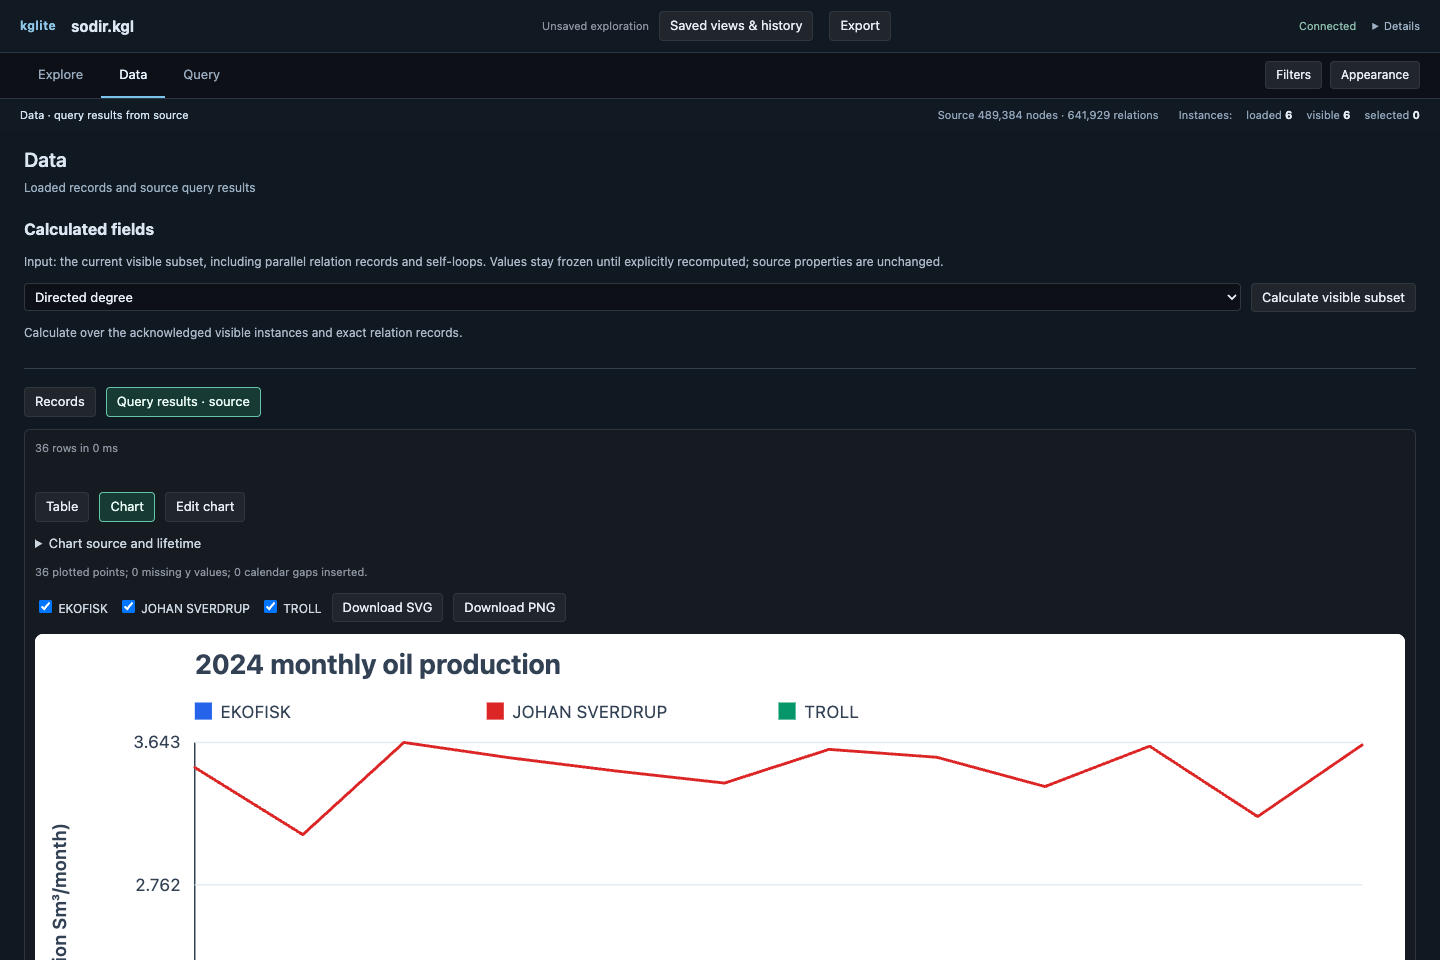
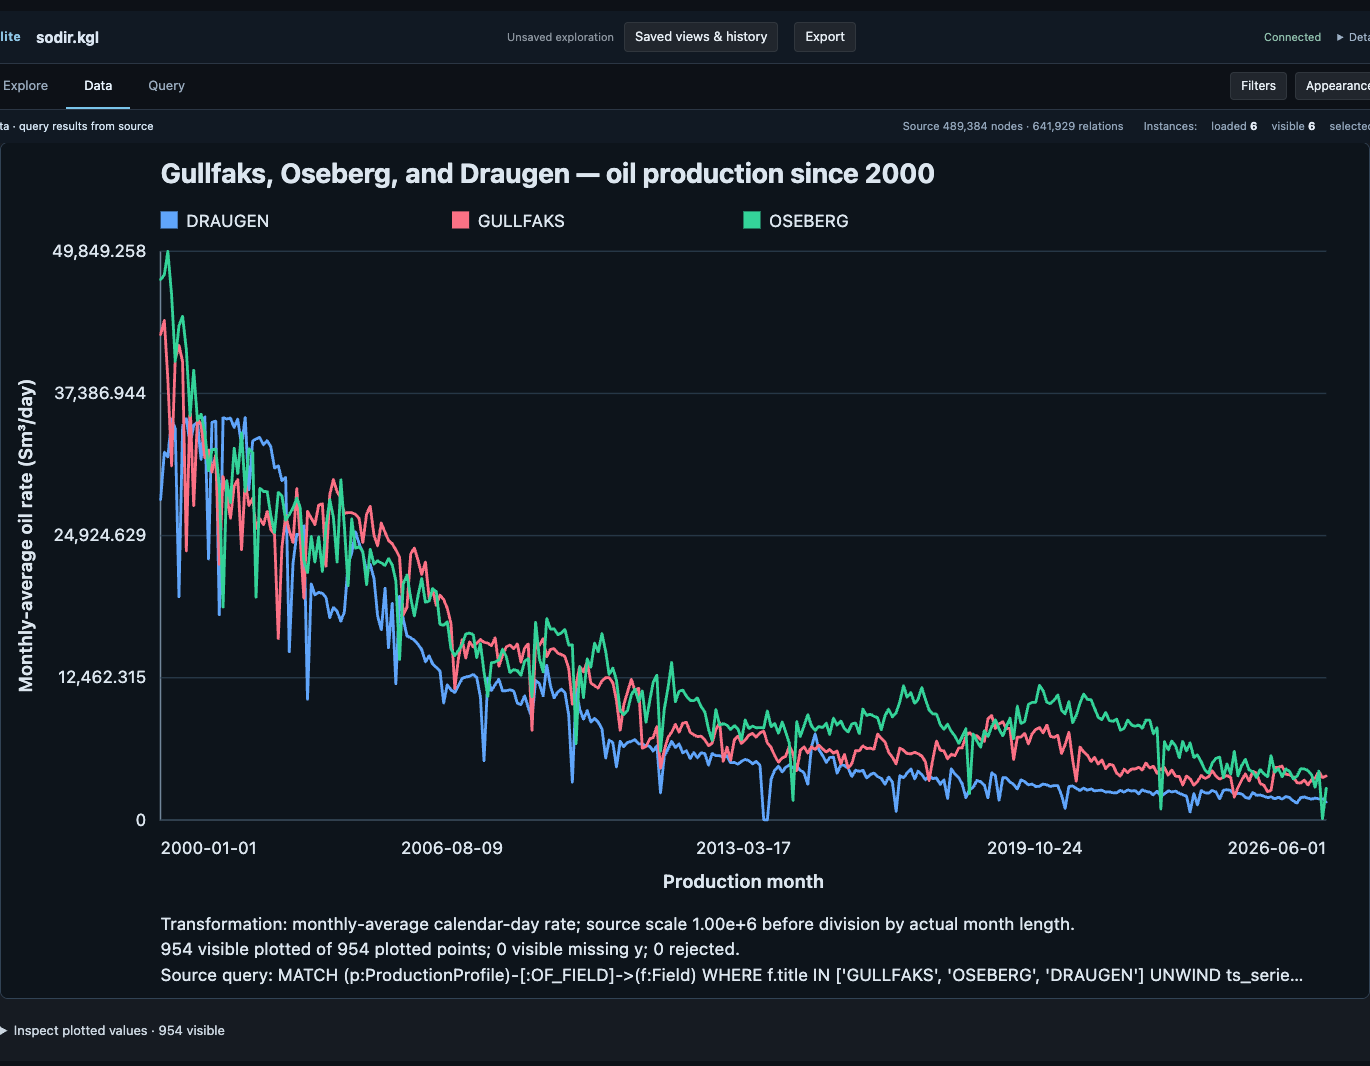
Polish the long-range SODIR production example

diff --git a/frontend/src/charts/render.ts b/frontend/src/charts/render.ts
@@ -1,6 +1,7 @@
 import type { ChartKind, ChartModel, ChartPoint, ChartSeries } from './types'
 
 const PALETTE = ['#2563eb', '#dc2626', '#059669', '#7c3aed', '#d97706', '#0891b2', '#be185d', '#4f46e5', '#65a30d', '#9333ea', '#ea580c', '#0f766e', '#b91c1c', '#0369a1', '#6d28d9', '#15803d', '#c2410c', '#4338ca', '#a21caf', '#047857']
+const DARK_PALETTE = ['#60a5fa', '#fb7185', '#34d399', '#c084fc', '#fbbf24', '#22d3ee', '#f472b6', '#818cf8', '#a3e635', '#d8b4fe', '#fb923c', '#2dd4bf', '#f87171', '#38bdf8', '#a78bfa', '#4ade80', '#fdba74', '#a5b4fc', '#e879f9', '#6ee7b7']
 
 export interface ChartSource {
   query?: string
@@ -13,6 +14,7 @@ export interface ChartRenderOptions {
   height?: number
   title?: string
   background?: string
+  theme?: 'light' | 'dark'
   hiddenSeries?: ReadonlySet<string>
   source?: ChartSource
 }
@@ -98,9 +100,12 @@ function provenance(model: ChartModel, source: ChartSource | undefined, series: 
   }).replace(/</g, '\\u003c')
 }
 
-function seriesColor(model: ChartModel, series: ChartSeries): string { return PALETTE[Math.max(0, model.series.indexOf(series)) % PALETTE.length]! }
+function seriesColor(model: ChartModel, series: ChartSeries, theme: 'light' | 'dark'): string {
+  const palette = theme === 'dark' ? DARK_PALETTE : PALETTE
+  return palette[Math.max(0, model.series.indexOf(series)) % palette.length]!
+}
 
-function marks(kind: ChartKind, model: ChartModel, series: ChartSeries[], frame: Frame, xd: Domain, yd: Domain): string {
+function marks(kind: ChartKind, model: ChartModel, series: ChartSeries[], frame: Frame, xd: Domain, yd: Domain, theme: 'light' | 'dark'): string {
   const sx = (x: number) => scale(x, xd, frame.left, frame.right)
   const sy = (y: number) => scale(y, yd, frame.bottom, frame.top)
   if (kind === 'line') return series.map(s => {
@@ -108,20 +113,25 @@ function marks(kind: ChartKind, model: ChartModel, series: ChartSeries[], frame:
     for (const p of s.points) { if (p.y === null) { if (run.length) runs.push(run); run = [] } else run.push(p) }
     if (run.length) runs.push(run)
     return runs.map(points => points.length === 1
-      ? `<circle class="series-single" data-series="${escapeSvg(s.key)}" cx="${sx(points[0]!.x).toFixed(2)}" cy="${sy(points[0]!.y!).toFixed(2)}" r="3.5" fill="${seriesColor(model,s)}"><title>${escapeSvg(`${s.label}: ${xText(model, points[0]!)}, ${fmt(points[0]!.y!)}`)}</title></circle>`
-      : `<path class="series-line" data-series="${escapeSvg(s.key)}" d="${points.map((p, i) => `${i ? 'L' : 'M'}${sx(p.x).toFixed(2)},${sy(p.y!).toFixed(2)}`).join(' ')}" stroke="${seriesColor(model,s)}"/>`).join('')
+      ? `<circle class="series-single" data-series="${escapeSvg(s.key)}" cx="${sx(points[0]!.x).toFixed(2)}" cy="${sy(points[0]!.y!).toFixed(2)}" r="3.5" fill="${seriesColor(model,s,theme)}"><title>${escapeSvg(`${s.label}: ${xText(model, points[0]!)}, ${fmt(points[0]!.y!)}`)}</title></circle>`
+      : `<path class="series-line" data-series="${escapeSvg(s.key)}" d="${points.map((p, i) => `${i ? 'L' : 'M'}${sx(p.x).toFixed(2)},${sy(p.y!).toFixed(2)}`).join(' ')}" stroke="${seriesColor(model,s,theme)}"/>`).join('')
   }).join('')
-  if (kind === 'scatter') return series.map(s => s.points.filter(p => p.y !== null).map(p => `<circle class="point" cx="${sx(p.x).toFixed(2)}" cy="${sy(p.y!).toFixed(2)}" r="3" fill="${seriesColor(model,s)}"><title>${escapeSvg(`${s.label}: ${xText(model, p)}, ${fmt(p.y!)}`)}</title></circle>`).join('')).join('')
+  if (kind === 'scatter') return series.map(s => s.points.filter(p => p.y !== null).map(p => `<circle class="point" cx="${sx(p.x).toFixed(2)}" cy="${sy(p.y!).toFixed(2)}" r="3" fill="${seriesColor(model,s,theme)}"><title>${escapeSvg(`${s.label}: ${xText(model, p)}, ${fmt(p.y!)}`)}</title></circle>`).join('')).join('')
   const all = series.flatMap((s, si) => s.points.filter(p => p.y !== null).map(p => ({s, si, p})))
   const categories = [...new Set(all.map(v => v.p.x))].sort((a, b) => a - b)
   const band = frame.width / Math.max(1, categories.length); const bar = Math.max(1, band * 0.8 / Math.max(1, series.length)); const zero = sy(0)
-  return all.map(({s, si, p}) => { const ci = categories.indexOf(p.x); const x = frame.left + ci * band + band * 0.1 + si * bar; const y = sy(p.y!); return `<rect class="bar" x="${x.toFixed(2)}" y="${Math.min(y, zero).toFixed(2)}" width="${bar.toFixed(2)}" height="${Math.max(1, Math.abs(zero-y)).toFixed(2)}" fill="${seriesColor(model,s)}"><title>${escapeSvg(`${s.label}: ${xText(model, p)}, ${fmt(p.y!)}`)}</title></rect>` }).join('')
+  return all.map(({s, si, p}) => { const ci = categories.indexOf(p.x); const x = frame.left + ci * band + band * 0.1 + si * bar; const y = sy(p.y!); return `<rect class="bar" x="${x.toFixed(2)}" y="${Math.min(y, zero).toFixed(2)}" width="${bar.toFixed(2)}" height="${Math.max(1, Math.abs(zero-y)).toFixed(2)}" fill="${seriesColor(model,s,theme)}"><title>${escapeSvg(`${s.label}: ${xText(model, p)}, ${fmt(p.y!)}`)}</title></rect>` }).join('')
 }
 
 export function renderChartSvg(model: ChartModel, options: ChartRenderOptions = {}): string {
   const {width, height} = chartDimensions(model, options)
   const title = options.title?.trim() || `${model.kind.charAt(0).toUpperCase()}${model.kind.slice(1)} chart`
-  const background = options.background ?? '#ffffff'; const series = visibleChartSeries(model, options.hiddenSeries)
+  const theme = options.theme ?? 'light'
+  const background = options.background ?? (theme === 'dark' ? '#0d141b' : '#ffffff')
+  const foreground = theme === 'dark' ? '#dce6ef' : '#334155'
+  const axisColor = theme === 'dark' ? '#71869a' : '#334155'
+  const gridColor = theme === 'dark' ? '#263746' : '#e2e8f0'
+  const series = visibleChartSeries(model, options.hiddenSeries)
   const values = series.flatMap(s => s.points); const xs = values.map(p => p.x); const ys = values.flatMap(p => p.y === null ? [] : [p.y])
   const xd = finiteDomain(xs); const yd = finiteDomain(ys, model.kind === 'bar')
   const legendColumns = Math.max(1, Math.min(4, Math.floor((width - 112) / 180))); const legendRows = Math.max(1, Math.ceil(series.length / legendColumns))
@@ -129,15 +139,15 @@ export function renderChartSvg(model: ChartModel, options: ChartRenderOptions = 
   const categories = [...new Set(xs)].sort((a,b) => a-b); const xTicks = model.kind === 'bar' ? categories.slice(0, 8) : model.xKind === 'category' ? categories.slice(0, 8) : ticks(xd)
   const yTicks = ticks(yd)
   const axis = [
-    `<path d="M${frame.left},${frame.top}V${frame.bottom}H${frame.right}" fill="none" stroke="#334155"/>`,
-    ...yTicks.map(v => `<g><path d="M${frame.left},${scale(v,yd,frame.bottom,frame.top).toFixed(2)}H${frame.right}" stroke="#e2e8f0"/><text x="${frame.left-10}" y="${(scale(v,yd,frame.bottom,frame.top)+4).toFixed(2)}" text-anchor="end">${escapeSvg(fmt(v))}</text></g>`),
+    `<path d="M${frame.left},${frame.top}V${frame.bottom}H${frame.right}" fill="none" stroke="${axisColor}"/>`,
+    ...yTicks.map(v => `<g><path d="M${frame.left},${scale(v,yd,frame.bottom,frame.top).toFixed(2)}H${frame.right}" stroke="${gridColor}"/><text x="${frame.left-10}" y="${(scale(v,yd,frame.bottom,frame.top)+4).toFixed(2)}" text-anchor="end">${escapeSvg(fmt(v))}</text></g>`),
     ...xTicks.map((v,index) => `<text x="${(model.kind === 'bar' ? frame.left + (categories.indexOf(v)+0.5)*frame.width/categories.length : scale(v,xd,frame.left,frame.right)).toFixed(2)}" y="${frame.bottom+24}" text-anchor="${model.kind !== 'bar' && index === 0 ? 'start' : model.kind !== 'bar' && index === xTicks.length-1 ? 'end' : 'middle'}">${escapeSvg(xText(model,{x:v,y:0,sourceRow:0}))}</text>`),
   ].join('')
   const legendWidth = frame.width / legendColumns
-  const legend = series.map((s,i) => `<g transform="translate(${frame.left + (i%legendColumns)*legendWidth},${48+Math.floor(i/legendColumns)*18})"><rect width="12" height="12" fill="${seriesColor(model,s)}"/><text x="18" y="11">${escapeSvg(s.label.length > 24 ? `${s.label.slice(0,23)}…` : s.label)}</text></g>`).join('')
+  const legend = series.map((s,i) => `<g transform="translate(${frame.left + (i%legendColumns)*legendWidth},${48+Math.floor(i/legendColumns)*18})"><rect width="12" height="12" fill="${seriesColor(model,s,theme)}"/><text x="18" y="11">${escapeSvg(s.label.length > 24 ? `${s.label.slice(0,23)}…` : s.label)}</text></g>`).join('')
   const visiblePoints = series.flatMap(item => item.points); const visiblePlotted = visiblePoints.filter(point => point.y !== null).length; const visibleMissing = visiblePoints.length - visiblePlotted
   const coverage = `${visiblePlotted} visible plotted of ${model.coverage.plottedPoints} plotted points; ${visibleMissing} visible missing y; ${model.coverage.rejectedPoints} rejected.`
   const source = options.source?.query ? `Source query: ${options.source.query}` : (options.source?.label ?? 'Source query unavailable')
   const transform = model.transform ? `Transformation: monthly-average calendar-day rate; source scale ${fmt(model.transform.scale)} before division by actual month length.` : ''
-  return `<svg xmlns="http://www.w3.org/2000/svg" role="img" aria-labelledby="chart-title chart-desc" viewBox="0 0 ${width} ${height}" width="${width}" height="${height}"><title id="chart-title">${escapeSvg(title)}</title><desc id="chart-desc">${escapeSvg(`${model.kind} chart. ${coverage} ${transform} ${source}`)}</desc><metadata>${escapeSvg(provenance(model, options.source, series))}</metadata><style>text{font:12px system-ui,sans-serif;fill:#334155}.series-line{fill:none;stroke-width:2;stroke-linejoin:round;stroke-linecap:round}.axis-label{font-size:13px;font-weight:600}.chart-title{font-size:19px;font-weight:700}</style><rect width="100%" height="100%" fill="${escapeSvg(background)}"/><text class="chart-title" x="${frame.left}" y="28">${escapeSvg(title)}</text>${axis}${marks(model.kind,model,series,frame,xd,yd)}<text class="axis-label" x="${(frame.left+frame.right)/2}" y="${frame.bottom+48}" text-anchor="middle">${escapeSvg(model.xLabel ?? 'x')}</text><text class="axis-label" transform="translate(22 ${(frame.top+frame.bottom)/2}) rotate(-90)" text-anchor="middle">${escapeSvg(`${model.yLabel ?? 'y'}${model.unit ? ` (${model.unit})` : ''}`)}</text>${legend}${transform ? `<text x="${frame.left}" y="${height-48}">${escapeSvg(transform)}</text>` : ''}<text x="${frame.left}" y="${height-30}">${escapeSvg(coverage)}</text><text x="${frame.left}" y="${height-12}">${escapeSvg(source.length > 135 ? `${source.slice(0,132)}…` : source)}</text></svg>`
+  return `<svg xmlns="http://www.w3.org/2000/svg" role="img" aria-labelledby="chart-title chart-desc" viewBox="0 0 ${width} ${height}" width="${width}" height="${height}"><title id="chart-title">${escapeSvg(title)}</title><desc id="chart-desc">${escapeSvg(`${model.kind} chart. ${coverage} ${transform} ${source}`)}</desc><metadata>${escapeSvg(provenance(model, options.source, series))}</metadata><style>text{font:12px system-ui,sans-serif;fill:${foreground}}.series-line{fill:none;stroke-width:2;stroke-linejoin:round;stroke-linecap:round}.axis-label{font-size:13px;font-weight:600}.chart-title{font-size:19px;font-weight:700}</style><rect width="100%" height="100%" fill="${escapeSvg(background)}"/><text class="chart-title" x="${frame.left}" y="28">${escapeSvg(title)}</text>${axis}${marks(model.kind,model,series,frame,xd,yd,theme)}<text class="axis-label" x="${(frame.left+frame.right)/2}" y="${frame.bottom+48}" text-anchor="middle">${escapeSvg(model.xLabel ?? 'x')}</text><text class="axis-label" transform="translate(22 ${(frame.top+frame.bottom)/2}) rotate(-90)" text-anchor="middle">${escapeSvg(`${model.yLabel ?? 'y'}${model.unit ? ` (${model.unit})` : ''}`)}</text>${legend}${transform ? `<text x="${frame.left}" y="${height-48}">${escapeSvg(transform)}</text>` : ''}<text x="${frame.left}" y="${height-30}">${escapeSvg(coverage)}</text><text x="${frame.left}" y="${height-12}">${escapeSvg(source.length > 135 ? `${source.slice(0,132)}…` : source)}</text></svg>`
 }

diff --git a/frontend/tests/e2e/chart-ui.spec.ts b/frontend/tests/e2e/chart-ui.spec.ts
@@ -32,12 +32,16 @@ test('a bounded query result becomes an inspectable chart without changing graph
     await page.getByTestId('chart-x').selectOption('person')
     await page.getByTestId('chart-y').selectOption('age')
     await page.getByTestId('chart-title').fill('Fixture ages')
+    await page.getByTestId('chart-x-label').fill('Person')
+    await page.getByTestId('chart-y-label').fill('Age')
     await page.getByTestId('chart-unit').fill('years')
     await page.getByTestId('chart-build').click()
 
     const svg = page.getByTestId('chart-picture').locator('svg')
     await expect(svg).toBeVisible()
     await expect(svg.locator('#chart-title')).toHaveText('Fixture ages')
+    await expect(svg.locator(':scope > rect').first()).toHaveAttribute('fill', '#0d141b')
+    await expect(svg.locator('.axis-label')).toHaveText(['Person', 'Age (years)'])
     await expect(page.getByTestId('chart-values')).toContainText('12 visible')
     expect(await page.evaluate(() => window.__kglv?.selectedCount)).toBe(selectedBefore)
 
@@ -50,6 +54,7 @@ test('a bounded query result becomes an inspectable chart without changing graph
     const exported = readFileSync(savedPath!, 'utf8')
     expect(exported).toContain(query)
     expect(exported).toContain('&quot;resultRowsReturned&quot;:12')
+    expect(exported).toContain('fill="#ffffff"')
 
     await page.getByTestId('chart-table-view').click()
     await expect(page.getByTestId('query-table')).toBeVisible()

diff --git a/frontend/src/charts/panel.ts b/frontend/src/charts/panel.ts
@@ -215,9 +215,10 @@ export class QueryChartPanel {
     }
   }
 
-  private renderOptions() {
+  private renderOptions(theme: 'light' | 'dark' = 'light') {
     return {
       title: this.renderTitle,
+      theme,
       hiddenSeries: this.hiddenSeries,
       source: this.source === null ? {label: 'Source query unavailable (external result)'} : {query: this.source.query, params: this.source.params, label: `request ${this.source.requestId}`},
     }
@@ -226,7 +227,7 @@ export class QueryChartPanel {
   private paintChart(): void {
     const model = this.model
     if (model === null) { this.picture.replaceChildren(); this.seriesControls.replaceChildren(); return }
-    this.picture.innerHTML = renderChartSvg(model, this.renderOptions())
+    this.picture.innerHTML = renderChartSvg(model, this.renderOptions('dark'))
     this.seriesControls.replaceChildren(...model.series.map(series => {
       const input = el('input'); input.type = 'checkbox'; input.checked = !this.hiddenSeries.has(series.key)
       input.onchange = () => { if (input.checked) this.hiddenSeries.delete(series.key); else this.hiddenSeries.add(series.key); this.paintChart() }

diff --git a/frontend/src/charts/panel.css b/frontend/src/charts/panel.css
@@ -4,7 +4,7 @@
 .kglv-chart-field { display: grid; gap: 5px; color: #b9c8d6; font-size: 12px; }
 .kglv-chart-suggestions, .kglv-chart-series, .kglv-chart-transform { display: flex; flex-wrap: wrap; align-items: center; gap: 10px; }
 .kglv-chart-suggestion { text-align: left; }
-.kglv-chart-picture { overflow-x: auto; margin-top: 12px; background: #fff; border-radius: 8px; }
+.kglv-chart-picture { overflow-x: auto; margin-top: 12px; background: #0d141b; border: 1px solid #314355; border-radius: 8px; }
 .kglv-chart-picture svg { display: block; width: 100%; min-width: 480px; height: auto; }
 .kglv-chart-series { margin: 12px 0; }
 .kglv-chart-series label, .kglv-chart-transform label { color: #cbd6e0; font-size: 12px; }

diff --git a/scripts/check_sodir_notebook.py b/scripts/check_sodir_notebook.py
@@ -23,7 +23,7 @@ PIN_PATTERNS = {
 }
 RATE_HELPER = "monthly_average_daily_rate"
 CACHE_HELPER = "graph_cache_is_reusable"
-MAX_QUERY_LIMIT = 1_000
+MAX_QUERY_LIMIT = 2_000
 
 
 def source_text(cell: dict) -> str:
@@ -83,6 +83,8 @@ def check_pins_and_paths(sources: list[str]) -> None:
         "notebook contains a machine-local absolute path"
     )
     for phrase in (
+        'FIELDS = ["GULLFAKS", "OSEBERG", "DRAUGEN"]',
+        "PRODUCTION_START_YEAR = 2000",
         "ProductionProfile",
         "ts_series",
         "monthly-average calendar-day rate",

diff --git a/scripts/check_docs_config.py b/scripts/check_docs_config.py
@@ -19,7 +19,7 @@ REQUIRED_ASSETS = (
     "sodir-producing-fields-map.png",
     "sodir-depth-context-16-2-6.png",
     "sodir-notebook-data.png",
-    "sodir-production-2024.png",
+    "sodir-production-2000-latest.png",
     "sodir-notebook-map-app.png",
     "sodir-notebook-appraisal-app.png",
     "sodir-notebook-well-evidence-app.png",

diff --git a/docs/sodir-geologist.md b/docs/sodir-geologist.md
@@ -75,13 +75,13 @@ src="_static/sodir-notebook-well-evidence-app.png"
 alt="KGLite Visual radial graph of well 16/2-6 linked to formation tops, core records, and a drill-stem test"></a>
 
 4. **Production comparison.** Show three fields and their packed monthly
-   `ProductionProfile` values, then compare JOHAN SVERDRUP, TROLL, and EKOFISK over the
-   intentionally complete common 2024 window. Oil and gas use separate axes
-   because the source scales differ. The graph contains no invented month nodes.
+   `ProductionProfile` values, then compare GULLFAKS, OSEBERG, and DRAUGEN from
+   January 2000 through the latest source month using monthly-average oil rate.
+   The graph contains no invented month nodes.
 
 <a href="_static/sodir-notebook-production-graph-app.png"><img
 src="_static/sodir-notebook-production-graph-app.png"
-alt="KGLite Visual showing Ekofisk, Troll, and Johan Sverdrup connected to their production-profile records"></a>
+alt="KGLite Visual showing Gullfaks, Oseberg, and Draugen connected to their production-profile records"></a>
 
 5. **Handoff.** Save and export an exact visible GraphML slice for the
    reviewable 16/2-6 formation-top, core, and DST neighborhood.
@@ -93,7 +93,7 @@ interpretation boundaries.
 
 <a href="_static/sodir-notebook-production-chart-app.png"><img
 src="_static/sodir-notebook-production-chart-app.png"
-alt="KGLite Visual Data workspace charting 36 monthly oil-production rows for Ekofisk, Johan Sverdrup, and Troll during 2024"></a>
+alt="KGLite Visual Data workspace charting monthly-average oil rates for Gullfaks, Oseberg, and Draugen from 2000 through the latest source month"></a>
 
 The combined well-evidence query returns 24 ordered source rows: twenty
 formation-top records, three cores, and one DST. The notebook checks both node
@@ -117,7 +117,7 @@ They show where numeric ranges overlap and stop there.
 
 The notebook uses type-aware Cypher `ts_series(...)` expressions on matched
 `ProductionProfile` nodes while the builder graph is open, then writes only
-three fields, two channels, and twelve months to a small provenance sidecar.
+three fields and the oil channel from 2000 through the current year to a small provenance sidecar.
 It releases that Python graph before starting the file-backed viewer.
 
 For every source month it calculates:
@@ -126,19 +126,20 @@ For every source month it calculates:
 monthly-average calendar-day rate = monthly aggregate / days in that month
 ```
 
-February 2024 uses 29 days. Missing input remains missing. These curves are
-derived from monthly aggregates and are not day-by-day measurements.
+Leap-year February uses 29 days. Missing input remains missing. These curves
+are derived from monthly aggregates and are not day-by-day measurements. The
+end year follows the notebook run date, while the curves stop at the latest
+month actually present in the source.
 
-<a href="_static/sodir-production-2024.png"><img
-src="_static/sodir-production-2024.png"
-alt="Monthly-average calendar-day oil and gas production rates for Johan Sverdrup, Troll, and Ekofisk during 2024"></a>
+<a href="_static/sodir-production-2000-latest.png"><img
+src="_static/sodir-production-2000-latest.png"
+alt="Monthly-average calendar-day oil rates for Gullfaks, Oseberg, and Draugen from 2000 through the latest source month"></a>
 
-Oil is sourced in million Sm³ and gas in billion Sm³, then converted to Sm³
-per calendar day for the separately labelled axes. In the validated 2026-09-08 snapshot, the January Johan Sverdrup
-oil value is 3.488082 million Sm³, or 112,518.77 Sm³/day as a monthly average.
-In that snapshot, across 2024, Johan Sverdrup is oil-led at 41.561593 million Sm³ while Troll is
-gas-led at 43.754389 billion Sm³. September gas lows identify a useful month
-for comparison with other years; the graph and chart do not establish a cause.
+Oil is sourced in million Sm³ and converted to Sm³ per calendar day. In the validated 2026-09-08
+snapshot, all three series contain 318 monthly observations from January 2000
+through June 2026. Over that interval Oseberg reports 132.330082 million Sm³
+oil, Gullfaks 118.673975, and Draugen 93.967819. The long view makes decline,
+plateaus, and interruptions visible; the graph and chart do not establish their causes.
 
 The primary sources are SODIR's
 [monthly field production table](https://factpages.sodir.no/en/field/TableView/Production/Saleable/TotalNcsMonth)
